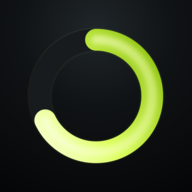
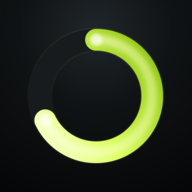
图标：两端加高光

Changed region(s): [[0.4375, 0.1562, 0.5312, 0.25], [0.1875, 0.5938, 0.2812, 0.6562]]

diff --git a/sw.js b/sw.js
@@ -1,5 +1,5 @@
 /* 离线缓存：让 App 在没网的时候也能打开 */
-const CACHE = 'ledger-v56';
+const CACHE = 'ledger-v57';
 const ASSETS = [
   './',
   './index.html',
